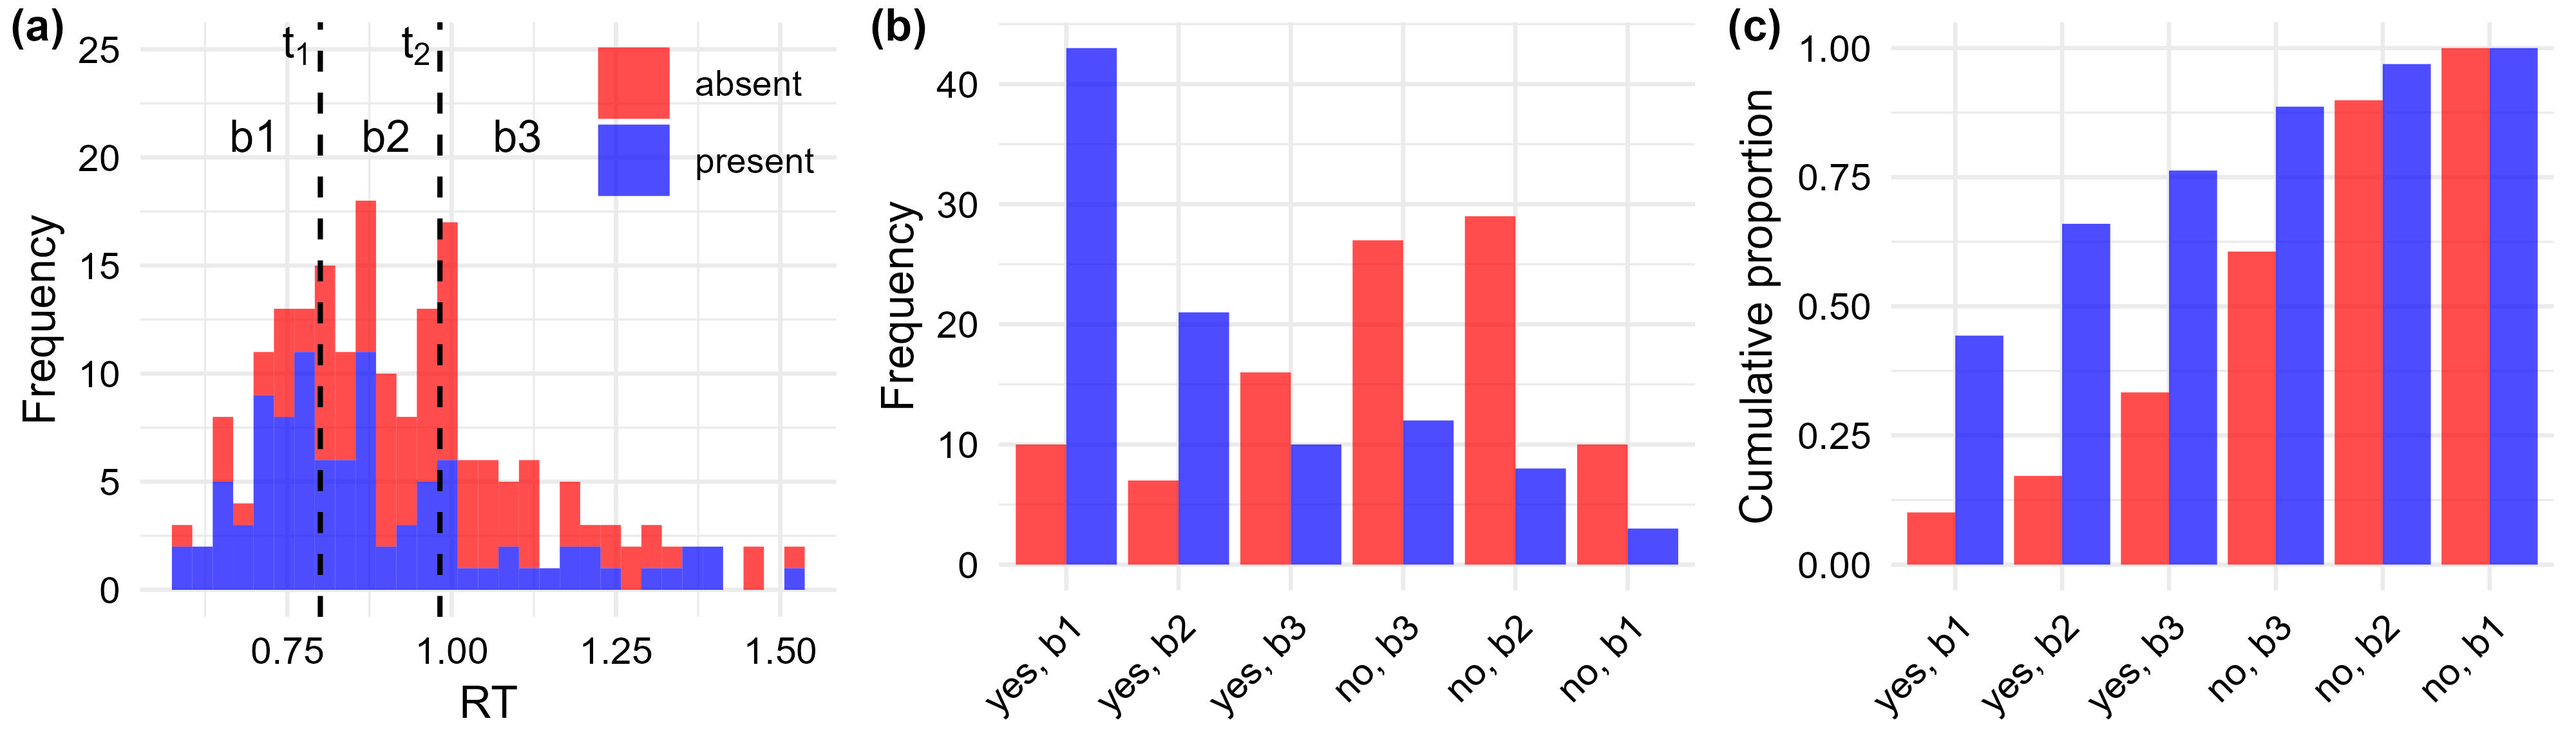
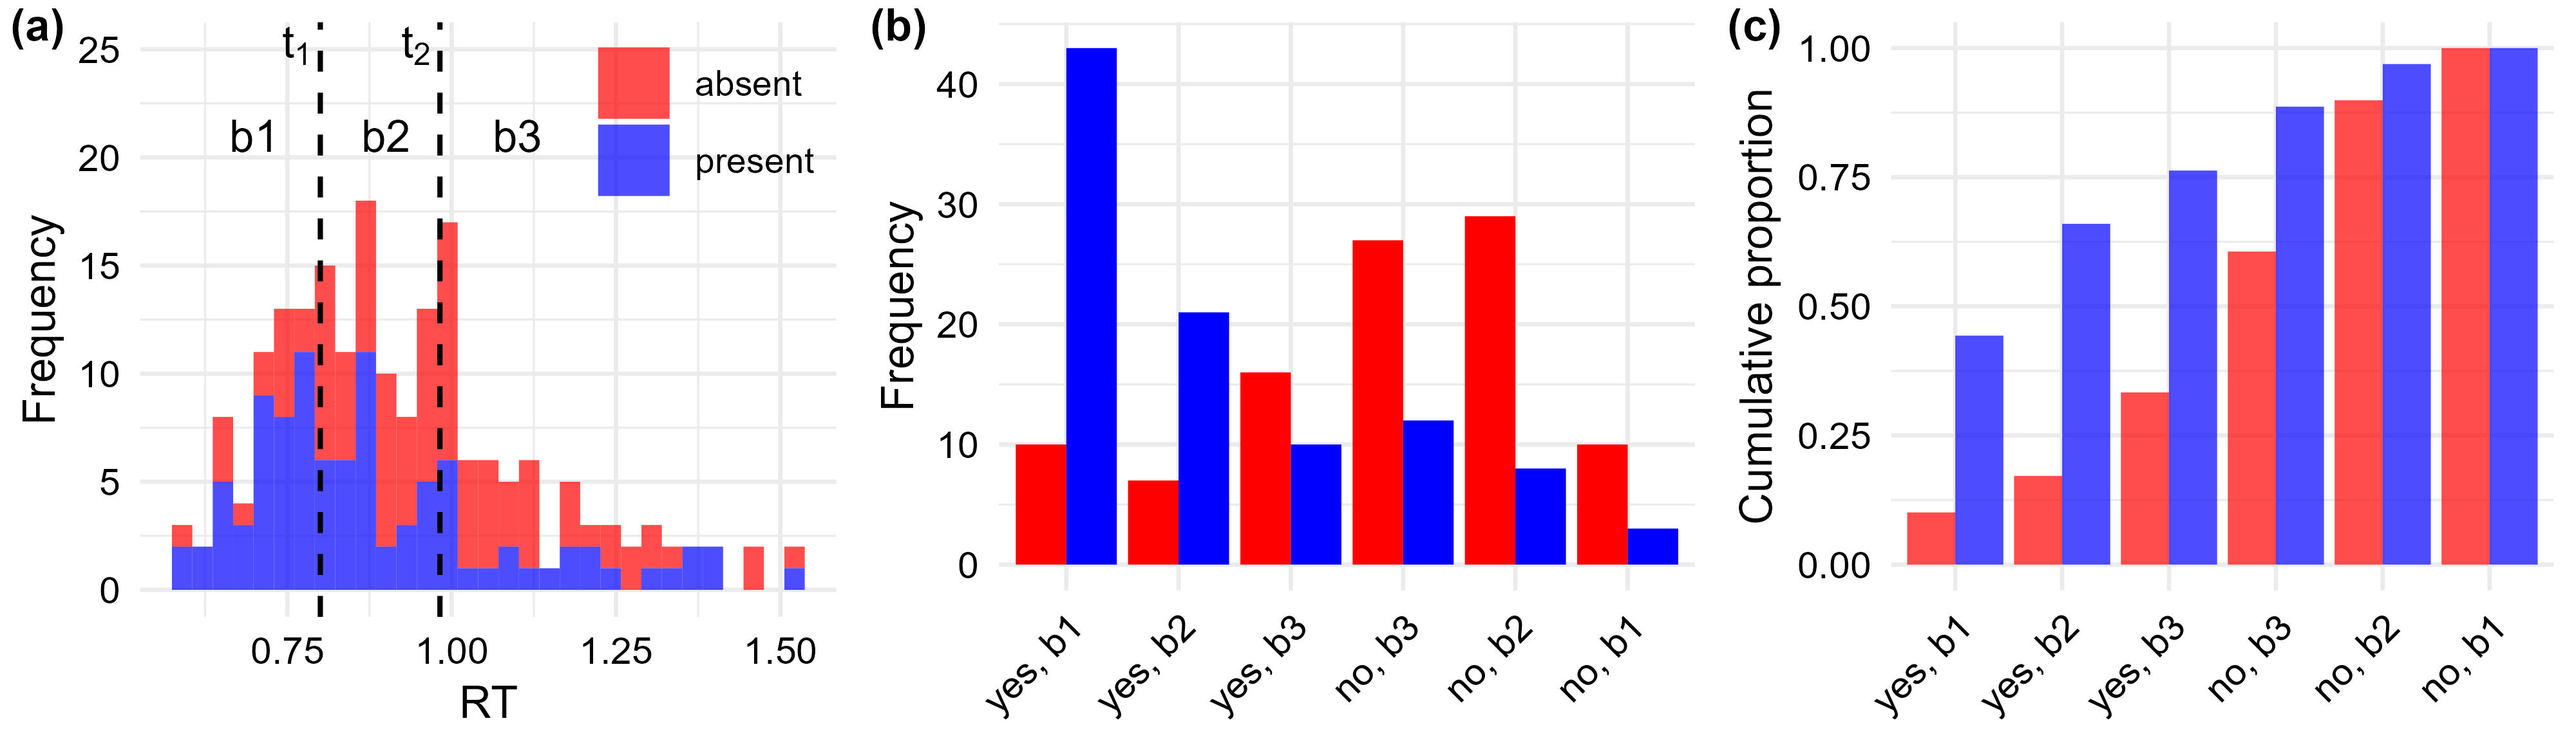
commit

Changed region(s): [[0.375, 0.0617, 0.6562, 0.7719]]

diff --git a/README.md b/README.md
@@ -14,21 +14,21 @@ fitting.
 `nr_s1` and `nr_s2` are response frequency vectors for S1
 (target-absent) and S2 (target present) trials, ordered from fastest-RT
 (or highest-confidence) Yes to fastest-RT (or highest-confidence) No
-responses.  
+responses (see Figure (b) below).  
 `add_constant = TRUE` adds a small value to the response frequency
 vectors for estimation stability (default value is TRUE).
 
 ``` r
-nr_s1 <- c(20,  36, 16, 40, 82, 137)
-nr_s2 <- c(197, 42, 12, 17, 30, 32)
+nr_s1 <- c(10,  7, 16, 27, 29, 10)
+nr_s2 <- c(43, 21, 10, 12,  8,  3)
 
 source("uvsdt.R")
 f1 <- fit_uvsdt_mle(nr_s1, nr_s2, add_constant = TRUE)
 f1
-#>         mu    sigma       da     cri.X1    cri.X2    cri.X3    cri.X4   cri.X5
-#> 1 1.950602 1.684445 1.408211 -0.2220643 0.4270594 0.7694734 0.9530994 1.544301
+#>         mu    sigma       da    cri.X1     cri.X2    cri.X3    cri.X4   cri.X5
+#> 1 1.231417 1.252275 1.086691 -1.234045 -0.2754573 0.3930064 0.8424681 1.381982
 #>        logL
-#> 1 -933.9624
+#> 1 -315.8781
 ```
 
 ## RT-based type-1 ROC construction
@@ -36,18 +36,19 @@ f1
 Our approach for constructing type-1 ROC based on RT is explained using
 a three-level RT bin example. First, RTs are divided into three
 equal-sized bins, with stimulus class (absent/present) and response
-(yes/no) collapsed. Figure (a) below illustrates this process, where t1
-and t2 represent the cutoff thresholds defining the RT tertiles, and b1,
-b2, and b3 correspond to the fastest, second-fastest, and slowest RT
-bins, respectively. Trials for each stimulus class are thus
-characterized by an assigned response (yes/no) and an RT bin (three
-levels), classified in six response categories. Figure (b) shows the
-response frequency of these categories, arranged from left to right to
-indicate decreasing support for “yes” judgment (e.g., “no” responses in
-the fastest RT bin represent the weakest indication of “yes” judgment).
-In Figure (c), cumulative response proportions are calculated for each
-stimulus class sequentially from left to right, which corresponds to hit
-and FA rates in type-1 ROC space.
+(yes/no) collapsed. Figure (a) below illustrates this process, where
+t<sub>1</sub> and t<sub>2</sub> represent the cutoff thresholds defining
+the RT tertiles, and b1, b2, and b3 correspond to the fastest,
+second-fastest, and slowest RT bins, respectively. Trials for each
+stimulus class are thus characterized by an assigned response (yes/no)
+and an RT bin (three levels), classified in six response categories.
+Figure (b) shows the response frequency of these categories, arranged
+from left to right to indicate decreasing support for “yes” judgment
+(e.g., “no” responses in the fastest RT bin represent the weakest
+indication of “yes” judgment). In Figure (c), cumulative response
+proportions are calculated for each stimulus class sequentially from
+left to right, which corresponds to hit and FA rates in type-1 ROC
+space.
 
 <p align="center">
 <img src="perception/figure_s1.jpg" width="100%">
